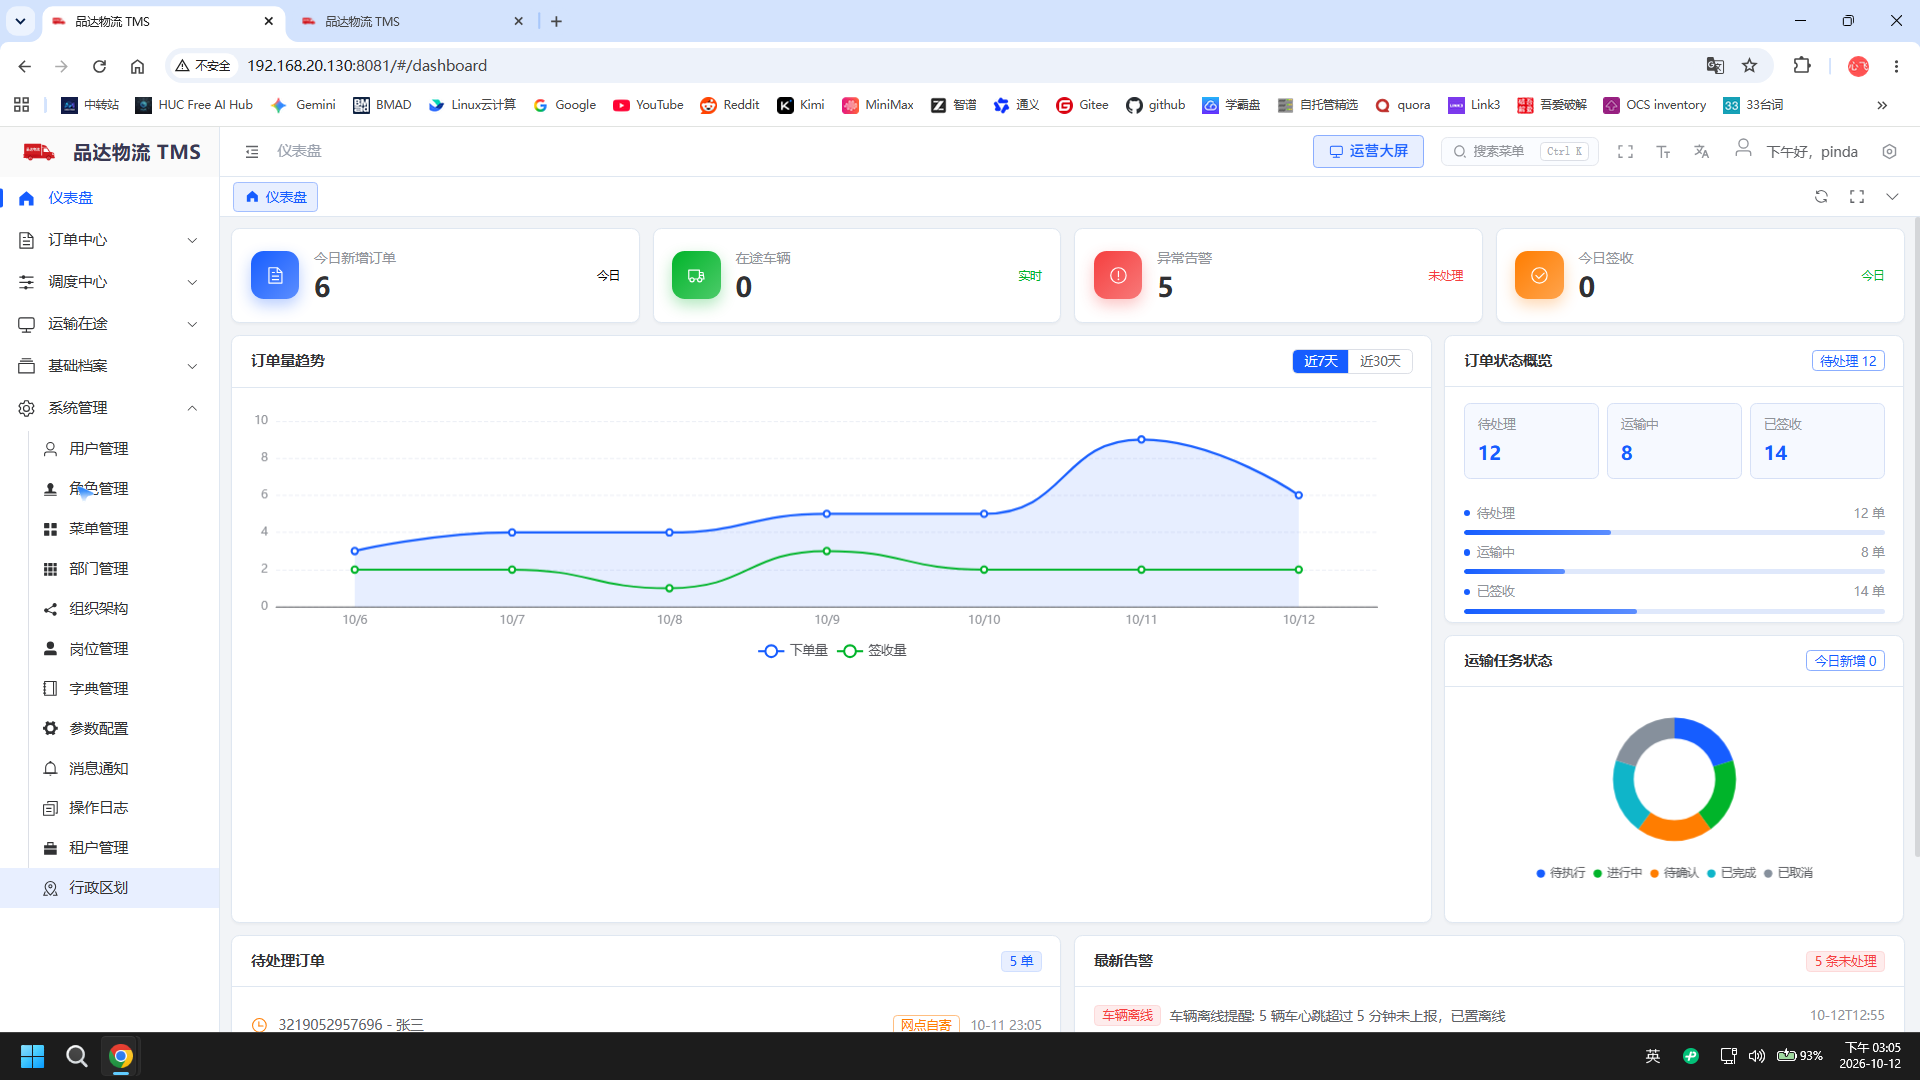
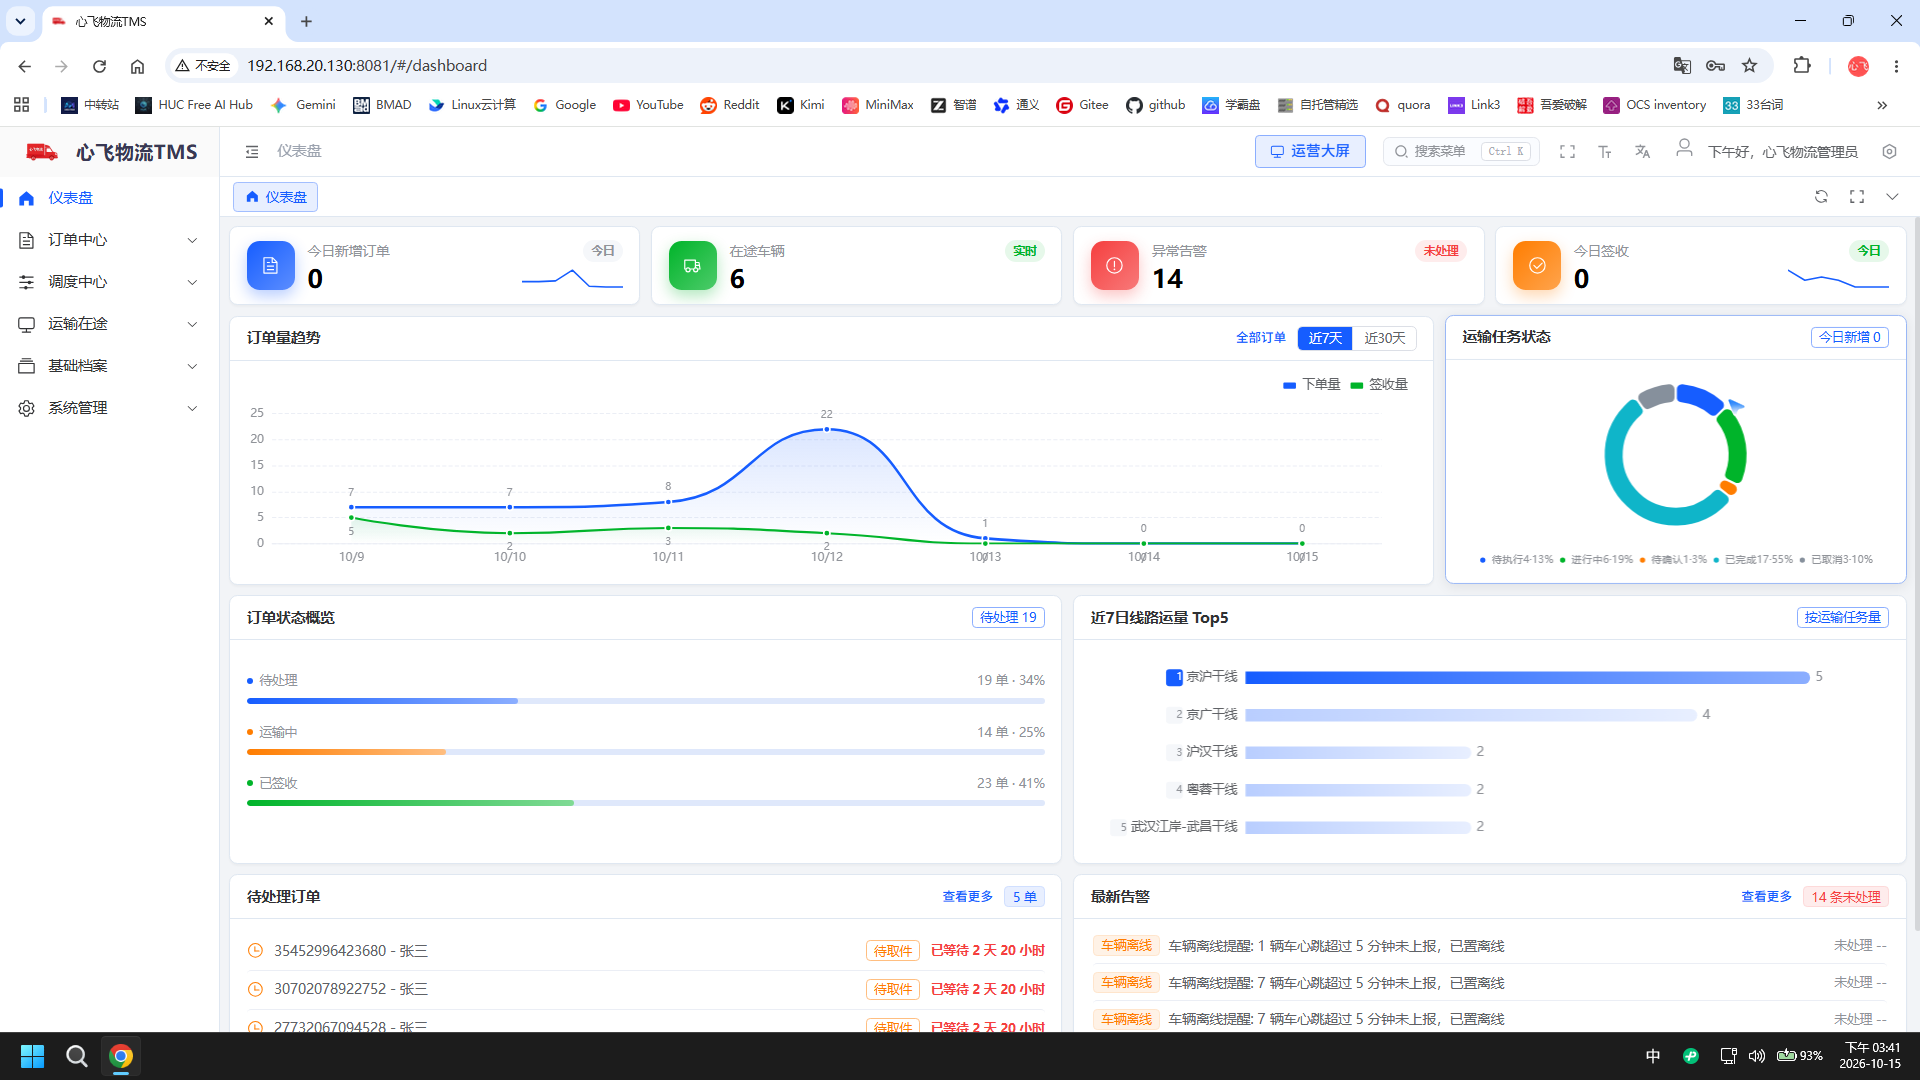
docs: 全量截图更新为心飞物流（管理端11页/移动三端8页/运维/大屏），修正登录页口号

diff --git a/docs/index.html b/docs/index.html
@@ -709,7 +709,7 @@ table.cmp .price{color:var(--red);font-weight:900}
   <div class="wrap">
     <div class="section-head">
       <span class="eyebrow">系统架构</span>
-      <h2 class="section-title">四层架构 · 13 个微服务</h2>
+      <h2 class="section-title">四层架构 · 14 个微服务</h2>
       <p class="section-sub">展示层 → 网关层 → 服务层 → 数据层，微服务按业务域拆分，OpenFeign 互调，Nacos 统一注册发现。</p>
     </div>
     <figure class="arch-fig">
@@ -726,12 +726,12 @@ table.cmp .price{color:var(--red);font-weight:900}
         <p><code>Spring Cloud Gateway</code> :8760 · 路由转发 · Sa-Token 多租户鉴权 · Same-Token 防直连</p>
       </div>
       <div class="layer">
-        <h4>服务层 · 13 个微服务</h4>
-        <p>BFF 四端聚合 · <code>xf-auth</code> 认证 · <code>xf-base</code> 档案 · <code>xf-oms</code> 订单 · <code>xf-dispatch</code> 调度 · <code>xf-work</code> 作业 · <code>xf-netty</code> 轨迹 · <code>xf-aggregation</code> 聚合</p>
+        <h4>服务层 · 14 个微服务</h4>
+        <p>BFF 四端聚合 · <code>xf-auth</code> 认证 · <code>xf-base</code> 档案 · <code>xf-oms</code> 订单 · <code>xf-dispatch</code> 调度 · <code>xf-work</code> 作业 · <code>xf-netty</code> 轨迹 · <code>xf-aggregation</code> 聚合 · <code>xf-file-server</code> 附件</p>
       </div>
       <div class="layer">
         <h4>数据与消息层</h4>
-        <p><code>MySQL 8</code> 单库 54 表 · <code>Redis 7</code> · <code>RabbitMQ</code> · Netty TCP · Nacos · XXL-Job · Docker Compose</p>
+        <p><code>MySQL 8</code> 单库 55 表 · <code>Redis 7</code> · <code>RabbitMQ</code> · Netty TCP · Nacos · XXL-Job · Docker Compose</p>
       </div>
     </div>
   </div>

diff --git a/README.en.md b/README.en.md
@@ -47,7 +47,7 @@
 > **Xinfei TMS** is a **4-end synergistic** (Admin + Customer + Courier + Driver) open-source Transportation Management System built on **JDK 21 + Spring Boot 3.5.7 + Vue 3.5**, covering the full chain: booking → order → intelligent dispatch → operations → tracking → proof of delivery. Drools rule engine drives intelligent dispatch, Netty powers self-built GPS tracking ingestion, Sa-Token provides multi-tenant SaaS readiness — order management, load planning, dispatch, driving management, GPS vehicle tracking and data reporting, all in one system for operational efficiency and cost control.
 
 <p align="center">
-<b><a href="#sec-tech"><code>13</code></a></b> microservices · <b><code>4</code></b> apps · <b><code>101</code></b> functional requirements · <b><code>54</code></b> database tables · <b><code>27</code></b> technologies · full business closed loop
+<b><a href="#sec-tech"><code>14</code></a></b> microservices · <b><code>4</code></b> apps · <b><code>101</code></b> functional requirements · <b><code>55</code></b> database tables · <b><code>27</code></b> technologies · full business closed loop
 </p>
 
 <p align="center">
@@ -218,7 +218,7 @@ Booking 📦 → Order creation 📋 → Intelligent dispatch 🤖 (Drools) → 
 
 ```
 xinfei-tms/
-├── Microservices (13)
+├── Microservices (14)
 │   ├── xf-gateway/           # Unified gateway (Spring Cloud Gateway)
 │   ├── xf-auth/              # Auth center (Sa-Token + multi-tenant)
 │   ├── xf-base/              # Master data (org / vehicle / line / cargo)
@@ -226,6 +226,7 @@ xinfei-tms/
 │   ├── xf-dispatch/          # Intelligent dispatch (Drools + XXL-Job)
 │   ├── xf-work/              # Operations (pickup/delivery & transport tasks)
 │   ├── xf-user/              # Users & members
+│   ├── xf-file-server/       # Attachments (POD photos upload/view, no DB)
 │   ├── xf-netty/             # Tracking ingestion (Netty TCP)
 │   ├── xf-aggregation/       # Data aggregation
 │   └── xf-web/               # BFF layer (4-end APIs)
@@ -250,7 +251,7 @@ xinfei-tms/
 
 ![System architecture](docs/system-arch.png)
 
-> Four layers: **Presentation** (Admin Vue3 + mobile uni-app) → **Gateway** (Spring Cloud Gateway, Sa-Token auth + Same-Token anti-direct-access) → **Service** (13 business microservices, Nacos registry/config) → **Data** (MySQL single-db-by-domain + Redis + RabbitMQ).
+> Four layers: **Presentation** (Admin Vue3 + mobile uni-app) → **Gateway** (Spring Cloud Gateway, Sa-Token auth + Same-Token anti-direct-access) → **Service** (14 business microservices, Nacos registry/config) → **Data** (MySQL single-db-by-domain + Redis + RabbitMQ).
 
 ### 6.2 Microservice Architecture
 
@@ -382,7 +383,7 @@ docker-compose up -d        # start middleware: MySQL / Redis / RabbitMQ / Nacos
 
 ## 8. 📸 Screenshots
 
-> Screenshots are from a real running environment (updated 2026-10-12). Admin core business pages and the 3 mobile apps are all captured.
+> Screenshots are from a real running environment (updated 2026-10-15). Admin core business pages and the 3 mobile apps are all captured.
 
 ### 8.1 Admin Console
 
@@ -390,7 +391,7 @@ docker-compose up -d        # start middleware: MySQL / Redis / RabbitMQ / Nacos
 <tr>
 <td align="center" width="50%">
   <img src="docs/screenshots/admin-login.png" alt="Admin login"/>
-  <br/><sub><b>Admin Login</b> · unified account + captcha</sub>
+  <br/><sub><b>Admin Login</b> · unified account + tenant + captcha</sub>
 </td>
 <td align="center" width="50%">
   <img src="docs/screenshots/admin-dashboard.png" alt="Admin dashboard"/>
@@ -400,13 +401,49 @@ docker-compose up -d        # start middleware: MySQL / Redis / RabbitMQ / Nacos
 <tr>
 <td align="center" width="50%">
   <img src="docs/screenshots/admin-order.png" alt="Order management"/>
-  <br/><sub><b>Order Management</b> · status filter / paginated list (real data)</sub>
+  <br/><sub><b>Order Management</b> · status filter / paginated list (60 records)</sub>
 </td>
 <td align="center" width="50%">
-  <div style="border:2px dashed #d0d7de;border-radius:8px;padding:52px 12px;color:#8b949e;background:#fafbfc;">
-    📷 To be added<br/><sub>Dispatch / waybill pages<br/>(replace with screenshots after running)</sub>
-  </div>
+  <img src="docs/screenshots/admin-waybill.png" alt="Waybill management"/>
+  <br/><sub><b>Waybill Management</b> · waybill status / line haul (45 records)</sub>
 </td>
+</tr>
+<tr>
+<td align="center" width="50%">
+  <img src="docs/screenshots/admin-dispatch.png" alt="Transport tasks"/>
+  <br/><sub><b>Transport Tasks</b> · dispatch-generated tasks (33 records)</sub>
+</td>
+<td align="center" width="50%">
+  <img src="docs/screenshots/admin-pickup.png" alt="Pickup/delivery tasks"/>
+  <br/><sub><b>Pickup/Delivery Tasks</b> · pickup &amp; delivery (44 records)</sub>
+</td>
+</tr>
+<tr>
+<td align="center" width="50%">
+  <img src="docs/screenshots/admin-driver-job.png" alt="Driver jobs"/>
+  <br/><sub><b>Driver Jobs</b> · driver pickup / unloading (13 records)</sub>
+</td>
+<td align="center" width="50%">
+  <img src="docs/screenshots/admin-alarm.png" alt="Alarm center"/>
+  <br/><sub><b>Alarm Center</b> · deviation / overspeed / offline alarms (22, 14 open)</sub>
+</td>
+</tr>
+<tr>
+<td align="center" width="50%">
+  <img src="docs/screenshots/admin-truck.png" alt="Truck management"/>
+  <br/><sub><b>Truck Management</b> · vehicle profiles &amp; status (22 records)</sub>
+</td>
+<td align="center" width="50%">
+  <img src="docs/screenshots/admin-driver.png" alt="Driver management"/>
+  <br/><sub><b>Driver Management</b> · driver profiles / Xinfei fleet (10 records)</sub>
+</td>
+</tr>
+<tr>
+<td align="center" width="50%">
+  <img src="docs/screenshots/admin-line.png" alt="Line management"/>
+  <br/><sub><b>Line Management</b> · trunk / feeder lines (22 records)</sub>
+</td>
+<td align="center" width="50%"></td>
 </tr>
 </table>
 
@@ -414,17 +451,29 @@ docker-compose up -d        # start middleware: MySQL / Redis / RabbitMQ / Nacos
 
 <table>
 <tr>
-<td align="center" width="33%"><b>Customer · Xinfei Express</b><br/><br/>
-  <img src="docs/screenshots/mobile-customer.png" alt="Customer H5" style="max-width:180px;border-radius:8px;border:1px solid #e5e7eb;"/>
-  <br/><sub>Booking / tracking · H5 (:8084)</sub>
+<td align="center" width="100%">
+<b>Customer · Xinfei Express</b> (H5, :8084)<br/><br/>
+<img src="docs/screenshots/mobile-customer-home.png" alt="Customer home" style="width:23%;margin:0 4px;border:1px solid #e5e7eb;border-radius:6px;"/>
+<img src="docs/screenshots/mobile-customer-order.png" alt="Book order" style="width:23%;margin:0 4px;border:1px solid #e5e7eb;border-radius:6px;"/>
+<img src="docs/screenshots/mobile-customer-list.png" alt="My waybills" style="width:23%;margin:0 4px;border:1px solid #e5e7eb;border-radius:6px;"/>
+<img src="docs/screenshots/mobile-customer-track.png" alt="Waybill detail" style="width:23%;margin:0 4px;border:1px solid #e5e7eb;border-radius:6px;"/>
+<br/><sub>Home (in-progress orders) · Book a shipment · My waybills · Waybill detail / tracking</sub>
 </td>
-<td align="center" width="33%"><b>Courier · Xinfei Courier</b><br/><br/>
-  <img src="docs/screenshots/mobile-courier.png" alt="Courier H5" style="max-width:180px;border-radius:8px;border:1px solid #e5e7eb;"/>
-  <br/><sub>Pickup/delivery tasks · H5 (:8083)</sub>
+</tr>
+<tr>
+<td align="center" width="100%">
+<b>Courier · Xinfei Courier</b> (H5, :8083)<br/><br/>
+<img src="docs/screenshots/mobile-courier-list.png" alt="Task list" style="width:23%;margin:0 4px;border:1px solid #e5e7eb;border-radius:6px;"/>
+<img src="docs/screenshots/mobile-courier-detail.png" alt="Task detail" style="width:23%;margin:0 4px;border:1px solid #e5e7eb;border-radius:6px;"/>
+<br/><sub>Pickup/delivery task list · Task detail (sign / inbound / handover / verify)</sub>
 </td>
-<td align="center" width="33%"><b>Driver · Xinfei Driver</b><br/><br/>
-  <img src="docs/screenshots/mobile-driver.png" alt="Driver H5" style="max-width:180px;border-radius:8px;border:1px solid #e5e7eb;"/>
-  <br/><sub>Transport tasks / location · H5 (:8082)</sub>
+</tr>
+<tr>
+<td align="center" width="100%">
+<b>Driver · Xinfei Driver</b> (H5, :8082)<br/><br/>
+<img src="docs/screenshots/mobile-driver-home.png" alt="Driver home" style="width:23%;margin:0 4px;border:1px solid #e5e7eb;border-radius:6px;"/>
+<img src="docs/screenshots/mobile-driver-location.png" alt="Location report" style="width:23%;margin:0 4px;border:1px solid #e5e7eb;border-radius:6px;"/>
+<br/><sub>Home / transport tasks · Location reporting toggle (enabled)</sub>
 </td>
 </tr>
 </table>

diff --git a/README.md b/README.md
@@ -45,7 +45,7 @@
 > **心飞 TMS** 是一款**四端协同**（管理端 + 客户端 + 快递员端 + 司机端）的开源运输管理系统，基于 **JDK 21 + Spring Boot 3.5.7 + Vue 3.5** 构建，覆盖寄件 → 订单 → 智能调度 → 作业 → 轨迹 → 回单全链路。Drools 规则引擎驱动智能调度，Netty 自建轨迹接入，Sa-Token 多租户 SaaS 就绪。
 
 <p align="center">  
-<b><a href="#sec-tech"><code>13</code></a></b> 个微服务 · <b><code>4</code></b> 端协同 · <b><code>101</code></b> 条功能需求 · <b><code>54</code></b> 张数据表 · <b><code>27</code></b> 项技术栈 · 全链路业务闭环  
+<b><a href="#sec-tech"><code>14</code></a></b> 个微服务 · <b><code>4</code></b> 端协同 · <b><code>101</code></b> 条功能需求 · <b><code>55</code></b> 张数据表 · <b><code>27</code></b> 项技术栈 · 全链路业务闭环  
 </p>
 
 <p align="center">  
@@ -335,58 +335,99 @@ docker-compose up -d        # 起中间件：MySQL / Redis / RabbitMQ / Nacos
 
 ## 八、📸 系统截图
 
-> 以下截图来自真实运行环境（2026-10-12 更新）。管理端核心业务页与移动三端均已补充截图。
+> 以下截图来自真实运行环境（2026-10-15 更新）。管理端核心业务页与移动三端均已补充截图。
 
 ### 8.1 后台管理端
 
-<table>  
-<tr>  
-<td align="center" width="50%">  
-  <img src="docs/screenshots/admin-login.png" alt="管理端登录"/>  
-     <sub><b>管理端登录</b> · 统一账号 + 验证码校验</sub>  
-</td>  
-<td align="center" width="50%">  
-  <img src="docs/screenshots/admin-dashboard.png" alt="管理端仪表盘"/>  
-     <sub><b>工作台仪表盘</b> · 订单 / 告警 / 待办与图表统计</sub>  
-</td>  
-</tr>  
-<tr>  
-<td align="center" width="50%">  
-  <img src="docs/screenshots/admin-order.png" alt="订单管理"/>  
-     <sub><b>订单管理</b> · 状态筛选 / 分页列表（真实数据）</sub>  
-</td>  
-<td align="center" width="50%">  
-  <div style="border:2px dashed #d0d7de;border-radius:8px;padding:52px 12px;color:#8b949e;background:#fafbfc;">  
-    📷 待补充   <sub>调度管理 / 运单管理等业务页面  
-（项目运行后截图替换）</sub>  
-  </div>  
-</td>  
-</tr>  
+<table>
+<tr>
+<td align="center" width="50%">
+  <img src="docs/screenshots/admin-login.png" alt="管理端登录"/>
+     <sub><b>管理端登录</b> · 统一账号 + 多租户 + 验证码校验</sub>
+</td>
+<td align="center" width="50%">
+  <img src="docs/screenshots/admin-dashboard.png" alt="管理端仪表盘"/>
+     <sub><b>工作台仪表盘</b> · 订单 / 告警 / 待办与图表统计</sub>
+</td>
+</tr>
+<tr>
+<td align="center" width="50%">
+  <img src="docs/screenshots/admin-order.png" alt="订单管理"/>
+     <sub><b>订单管理</b> · 状态筛选 / 分页列表（60 条真实数据）</sub>
+</td>
+<td align="center" width="50%">
+  <img src="docs/screenshots/admin-waybill.png" alt="运单管理"/>
+     <sub><b>运单管理</b> · 运单状态 / 干线运输（45 条）</sub>
+</td>
+</tr>
+<tr>
+<td align="center" width="50%">
+  <img src="docs/screenshots/admin-dispatch.png" alt="运输任务"/>
+     <sub><b>运输任务</b> · 智能调度生成的运输任务（33 条）</sub>
+</td>
+<td align="center" width="50%">
+  <img src="docs/screenshots/admin-pickup.png" alt="取派件任务"/>
+     <sub><b>取派件任务</b> · 取件 / 派件任务（44 条）</sub>
+</td>
+</tr>
+<tr>
+<td align="center" width="50%">
+  <img src="docs/screenshots/admin-driver-job.png" alt="司机作业单"/>
+     <sub><b>司机作业单</b> · 司机提货 / 卸货作业（13 条）</sub>
+</td>
+<td align="center" width="50%">
+  <img src="docs/screenshots/admin-alarm.png" alt="告警中心"/>
+     <sub><b>告警中心</b> · 车辆偏离 / 超速 / 离线告警（22 条，未处理 14）</sub>
+</td>
+</tr>
+<tr>
+<td align="center" width="50%">
+  <img src="docs/screenshots/admin-truck.png" alt="车辆管理"/>
+     <sub><b>车辆管理</b> · 车辆档案与状态（22 条）</sub>
+</td>
+<td align="center" width="50%">
+  <img src="docs/screenshots/admin-driver.png" alt="司机管理"/>
+     <sub><b>司机管理</b> · 司机档案 / 心飞自营车队（10 条）</sub>
+</td>
+</tr>
+<tr>
+<td align="center" width="50%">
+  <img src="docs/screenshots/admin-line.png" alt="线路管理"/>
+     <sub><b>线路管理</b> · 干线 / 接驳线路（22 条）</sub>
+</td>
+<td align="center" width="50%"></td>
+</tr>
 </table>
 
 ### 8.2 移动端 App
 
-<table>  
-<tr>  
-<td align="center" width="33%"><b>客户端 · 心飞速运</b>  
-  
-
-  <img src="docs/screenshots/mobile-customer.png" alt="客户端 H5" style="max-width:180px;border-radius:8px;border:1px solid #e5e7eb;"/>  
-     <sub>寄件 / 查物流 · H5（:8084）</sub>  
-</td>  
-<td align="center" width="33%"><b>快递员端 · 心飞快递员</b>  
-
-
-  <img src="docs/screenshots/mobile-courier.png" alt="快递员端 H5" style="max-width:180px;border-radius:8px;border:1px solid #e5e7eb;"/>  
-     <sub>取派件任务 · H5（:8083）</sub>  
-</td>  
-<td align="center" width="33%"><b>司机端 · 心飞司机宝</b>  
-
-
-  <img src="docs/screenshots/mobile-driver.png" alt="司机端 H5" style="max-width:180px;border-radius:8px;border:1px solid #e5e7eb;"/>  
-     <sub>运输任务 / 位置上报 · H5（:8082）</sub>  
-</td>  
-</tr>  
+<table>
+<tr>
+<td align="center" width="100%">
+<b>客户端 · 心飞速运</b>（H5，:8084）<br/><br/>
+<img src="docs/screenshots/mobile-customer-home.png" alt="客户端首页" style="width:23%;margin:0 4px;border:1px solid #e5e7eb;border-radius:6px;"/>
+<img src="docs/screenshots/mobile-customer-order.png" alt="我要寄件" style="width:23%;margin:0 4px;border:1px solid #e5e7eb;border-radius:6px;"/>
+<img src="docs/screenshots/mobile-customer-list.png" alt="我的运单" style="width:23%;margin:0 4px;border:1px solid #e5e7eb;border-radius:6px;"/>
+<img src="docs/screenshots/mobile-customer-track.png" alt="运单详情" style="width:23%;margin:0 4px;border:1px solid #e5e7eb;border-radius:6px;"/>
+<br/><sub>首页（进行中订单）· 我要寄件下单 · 我的运单 · 运单详情 / 物流动态</sub>
+</td>
+</tr>
+<tr>
+<td align="center" width="100%">
+<b>快递员端 · 心飞快递员</b>（H5，:8083）<br/><br/>
+<img src="docs/screenshots/mobile-courier-list.png" alt="取派任务列表" style="width:23%;margin:0 4px;border:1px solid #e5e7eb;border-radius:6px;"/>
+<img src="docs/screenshots/mobile-courier-detail.png" alt="任务详情" style="width:23%;margin:0 4px;border:1px solid #e5e7eb;border-radius:6px;"/>
+<br/><sub>取派任务列表 · 任务详情（去签收 / 入库 / 交接 / 核验）</sub>
+</td>
+</tr>
+<tr>
+<td align="center" width="100%">
+<b>司机端 · 心飞司机宝</b>（H5，:8082）<br/><br/>
+<img src="docs/screenshots/mobile-driver-home.png" alt="司机宝首页" style="width:23%;margin:0 4px;border:1px solid #e5e7eb;border-radius:6px;"/>
+<img src="docs/screenshots/mobile-driver-location.png" alt="位置上报" style="width:23%;margin:0 4px;border:1px solid #e5e7eb;border-radius:6px;"/>
+<br/><sub>首页 / 运输任务 · 位置上报开关（已开启）</sub>
+</td>
+</tr>
 </table>
 
 ### 8.3 运维与中间件
